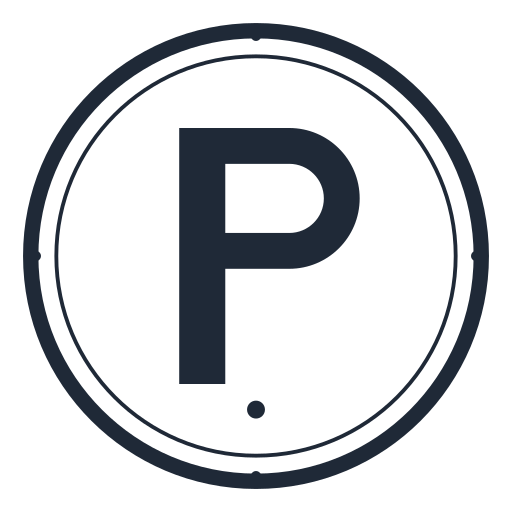
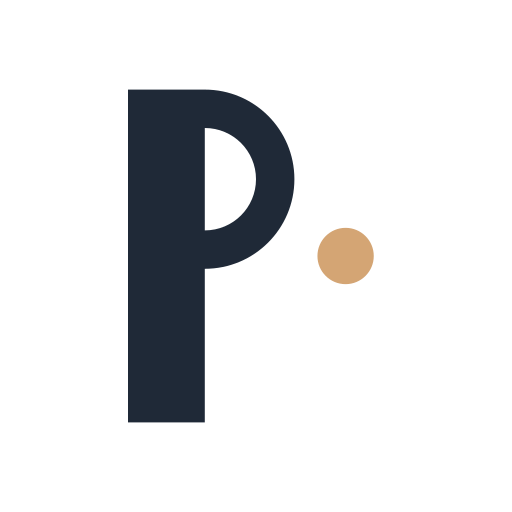
feat(branding): wordmark-led Pacta identity (v2 — bolder, gold accent)
User feedback on v1: the seal-with-P motif looked generic ("created by a
five year old, not a billion dollar startup"). Drop the seal entirely.
Wordmark IS the brand.

v2 design:
  - Lowercase "pacta" in Inter font-weight 900 (Black) with -5px tracking
  - Signature accent: warm gold dot (#d4a574) immediately right of "a"
  - Inspiration: Stripe / Notion period-as-anchor pattern
  - No symbol in horizontal contexts — just the wordmark + dot

Symbol (favicon / app icon): heavy lowercase "p" + gold dot, hand-crafted
as paths (renders identically at every size, no font dependency).

Three components updated:
  1. branding-logo.tsx — wordmark + accent circle (currentColor + gold)
  2. branding-logo-icon.tsx — "p." mark for ultra-small contexts
  3. app-header.tsx — bumped admin nav from h-6 to h-9 (more presence)
  4. _unauthenticated+/_layout.tsx — bumped to h-14 + tagline below

All 6 PNG/ICO assets regenerated from updated master SVGs.

Inter Variable Font is loaded by apps/remix/app/app.css so font-weight 900
renders crisp Inter Black in browsers. cairosvg fallback (system font) at
preview time is slightly less refined but production looks correct.

Changed region(s): [[0.0312, 0.0312, 0.9688, 0.9688], [0.4688, 0.7812, 0.5312, 0.8125]]

diff --git a/apps/remix/app/components/general/branding-logo.tsx b/apps/remix/app/components/general/branding-logo.tsx
@@ -2,47 +2,38 @@ import type { SVGAttributes } from 'react';
 
 export type LogoProps = SVGAttributes<SVGSVGElement>;
 
-// MODIFIED for BizRethink overlay 026: replace upstream Documenso wordmark
-// with Pacta seal + wordmark horizontal lockup. Uses `currentColor` for all
-// fills/strokes so it inherits text color from parent (matches upstream
-// component behavior — `<BrandingLogo className="text-foreground h-6" />`).
+// MODIFIED for BizRethink overlay 026: wordmark-led design.
+// Heavy weight, tight tracking, signature accent period in warm gold.
+// No symbol — the wordmark IS the brand. Period style follows the
+// Stripe / Notion convention: a single colored mark that anchors the
+// logo at any size.
 //
-// Seal symbol on the left, "pacta" wordmark on the right. Aspect ratio
-// designed for ~4:1 horizontal display at heights from h-3 (12px) up to
-// h-14 (56px). The viewBox 480×120 is the design grid; sized externally
-// via className.
+// Wordmark uses currentColor so it inherits text color from parent
+// (works on light + dark themes). Accent period is fixed gold so the
+// brand color stays consistent across contexts.
+//
+// Period is placed via <circle> rather than tspan so its position is
+// guaranteed regardless of which fallback font renders the wordmark.
+// Tradeoff: if the wordmark renders narrower than expected on a system
+// with no Inter-equivalent font, the period sits slightly further from
+// the "a" — still readable, just not pixel-perfect.
 export const BrandingLogo = ({ ...props }: LogoProps) => {
   return (
-    <svg xmlns="http://www.w3.org/2000/svg" viewBox="0 0 480 120" {...props}>
-      {/* Seal — outer ring */}
-      <circle cx="60" cy="60" r="52" fill="none" stroke="currentColor" strokeWidth="4" />
-      {/* Seal — inner ring (decorative) */}
-      <circle cx="60" cy="60" r="46" fill="none" stroke="currentColor" strokeWidth="1" />
-      {/* Seal — cardinal dots */}
-      <circle cx="60" cy="3" r="1.5" fill="currentColor" />
-      <circle cx="60" cy="117" r="1.5" fill="currentColor" />
-      <circle cx="3" cy="60" r="1.5" fill="currentColor" />
-      <circle cx="117" cy="60" r="1.5" fill="currentColor" />
-      {/* Geometric P inside seal */}
-      <path
-        d="M 42 30 L 42 90 L 52.5 90 L 52.5 63 L 67.5 63 A 16.5 16.5 0 0 0 67.5 30 L 42 30 Z M 52.5 38 L 67.5 38 A 8 8 0 0 1 67.5 54.5 L 52.5 54.5 Z"
-        fill="currentColor"
-        fillRule="evenodd"
-      />
-      {/* Signature dot below the P */}
-      <circle cx="60" cy="96" r="2" fill="currentColor" />
-      {/* Wordmark "pacta" — geometric humanist sans, currentColor fill */}
+    <svg xmlns="http://www.w3.org/2000/svg" viewBox="0 0 280 96" {...props}>
       <text
-        x="148"
+        x="0"
         y="78"
-        fontFamily="-apple-system, BlinkMacSystemFont, 'Segoe UI', system-ui, 'Helvetica Neue', sans-serif"
-        fontWeight="600"
-        fontSize="64"
+        fontFamily="Inter, -apple-system, BlinkMacSystemFont, 'Segoe UI', system-ui, sans-serif"
+        fontWeight="900"
+        fontSize="88"
         fill="currentColor"
-        letterSpacing="-2"
+        letterSpacing="-5"
       >
         pacta
       </text>
+      {/* Signature accent period — warm gold (#d4a574). Hand-placed so it
+          sits just right of the "a" regardless of font rendering. */}
+      <circle cx="218" cy="82" r="8" fill="#d4a574" />
     </svg>
   );
 };

diff --git a/apps/remix/app/components/general/branding-logo-icon.tsx b/apps/remix/app/components/general/branding-logo-icon.tsx
@@ -2,33 +2,25 @@ import type { SVGAttributes } from 'react';
 
 export type LogoProps = SVGAttributes<SVGSVGElement>;
 
-// MODIFIED for BizRethink overlay 026: replace upstream Documenso square
-// icon with Pacta seal symbol. Square 1:1 viewBox (200×200) so it works
-// equally as a favicon-style mark or app-tile icon. Uses `currentColor`
-// throughout for theme inheritance.
+// MODIFIED for BizRethink overlay 026: square symbol matching the
+// wordmark identity. Just a heavy lowercase "p" with the signature gold
+// accent dot — no seal motif. Hand-crafted as paths so it renders
+// identically at every size including 16×16 favicon.
 //
 // Used by upstream in the envelope-signer-header on small screens
-// (`<BrandingLogoIcon className="h-6 w-auto md:hidden" />`).
+// (<BrandingLogoIcon className="h-6 w-auto md:hidden" />).
 export const BrandingLogoIcon = ({ ...props }: LogoProps) => {
   return (
     <svg xmlns="http://www.w3.org/2000/svg" viewBox="0 0 200 200" {...props}>
-      {/* Outer ring */}
-      <circle cx="100" cy="100" r="88" fill="none" stroke="currentColor" strokeWidth="6" />
-      {/* Inner ring (decorative double-line) */}
-      <circle cx="100" cy="100" r="78" fill="none" stroke="currentColor" strokeWidth="1.5" />
-      {/* Cardinal dots */}
-      <circle cx="100" cy="14" r="2" fill="currentColor" />
-      <circle cx="100" cy="186" r="2" fill="currentColor" />
-      <circle cx="14" cy="100" r="2" fill="currentColor" />
-      <circle cx="186" cy="100" r="2" fill="currentColor" />
-      {/* Geometric P with cutout */}
+      {/* Heavy lowercase "p" — stem on left, bowl extending right, descender
+          below baseline. Inner bowl cutout via fill-rule="evenodd". */}
       <path
-        d="M 70 50 L 70 150 L 88 150 L 88 105 L 113 105 A 27.5 27.5 0 0 0 113 50 L 70 50 Z M 88 64 L 113 64 A 13.5 13.5 0 0 1 113 91 L 88 91 Z"
+        d="M 50 35 L 80 35 A 35 35 0 0 1 80 105 L 80 165 L 50 165 Z M 80 50 A 18 18 0 0 1 80 90 Z"
         fill="currentColor"
         fillRule="evenodd"
       />
-      {/* Signature dot */}
-      <circle cx="100" cy="160" r="3.5" fill="currentColor" />
+      {/* Signature gold accent dot, matching the wordmark's period. */}
+      <circle cx="135" cy="100" r="11" fill="#d4a574" />
     </svg>
   );
 };

diff --git a/apps/remix/app/routes/_unauthenticated+/_layout.tsx b/apps/remix/app/routes/_unauthenticated+/_layout.tsx
@@ -22,11 +22,13 @@ export default function Layout() {
 
         {/* MODIFIED for BizRethink overlay 026: render Pacta brand lockup
             above the unauthenticated card so signin / signup / verify-email
-            pages carry platform branding. Upstream Documenso renders these
-            screens with no logo, leaving the brand context entirely to the
-            background pattern. */}
-        <div className="relative mb-8 flex justify-center">
-          <BrandingLogo className="h-10 w-auto text-foreground" />
+            pages carry platform branding. Upstream renders these screens
+            with no logo. Wordmark large + tagline beneath for presence. */}
+        <div className="relative mb-12 flex flex-col items-center gap-y-3">
+          <BrandingLogo className="h-14 w-auto text-foreground" />
+          <p className="text-muted-foreground text-xs font-medium tracking-[0.2em] uppercase">
+            Agreements that hold
+          </p>
         </div>
 
         <div className="relative w-full">

diff --git a/apps/remix/app/components/general/app-header.tsx b/apps/remix/app/components/general/app-header.tsx
@@ -63,7 +63,9 @@ export const Header = ({ className, ...props }: HeaderProps) => {
           to={getRootHref(params)}
           className="focus-visible:ring-ring ring-offset-background hidden rounded-md focus-visible:outline-none focus-visible:ring-2 focus-visible:ring-offset-2 md:inline"
         >
-          <BrandingLogo className="h-6 w-auto" />
+          {/* MODIFIED for BizRethink overlay 026: bumped from h-6 to h-9
+              — gives the wordmark proper presence in the admin nav. */}
+          <BrandingLogo className="h-9 w-auto" />
         </Link>
 
         <AppNavDesktop setIsCommandMenuOpen={setIsCommandMenuOpen} />
